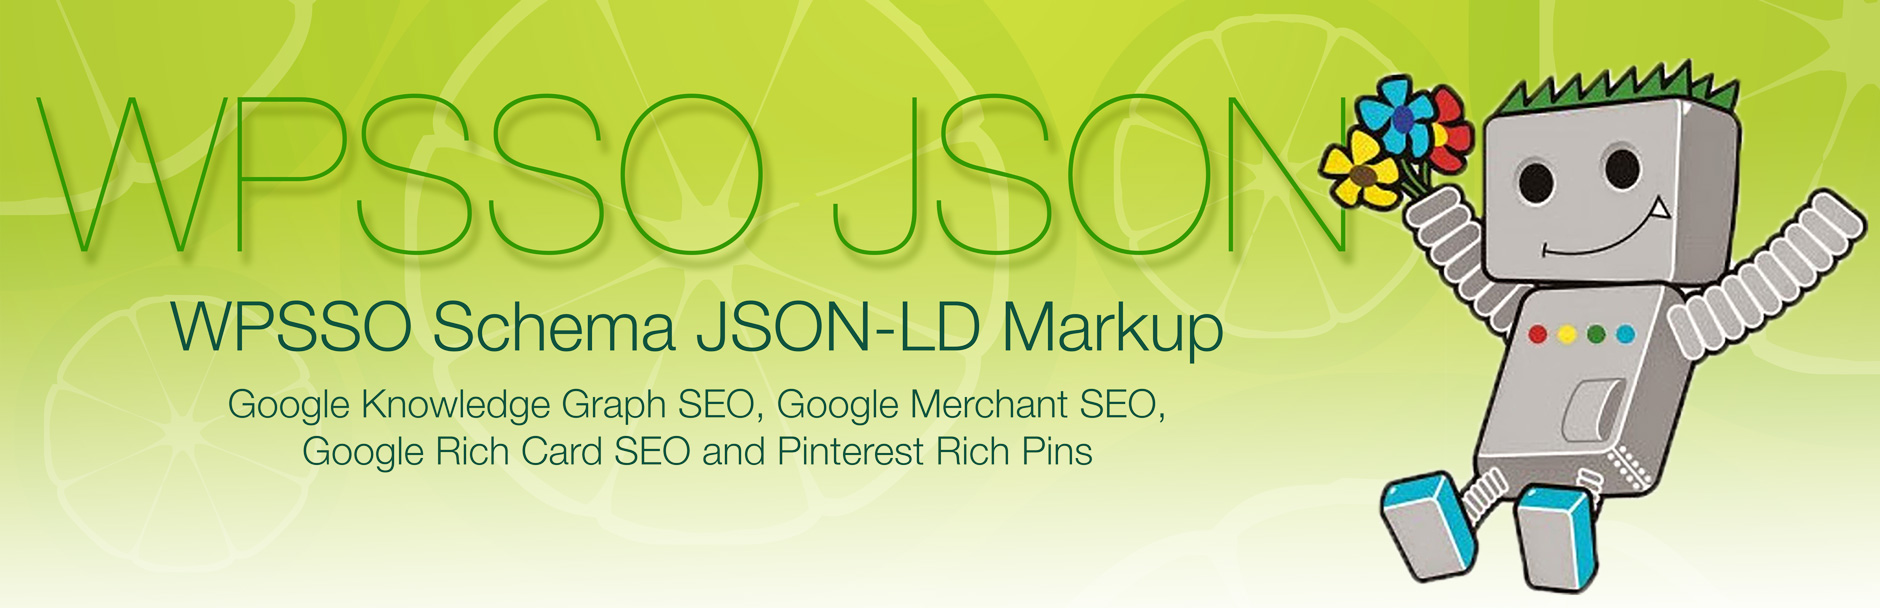
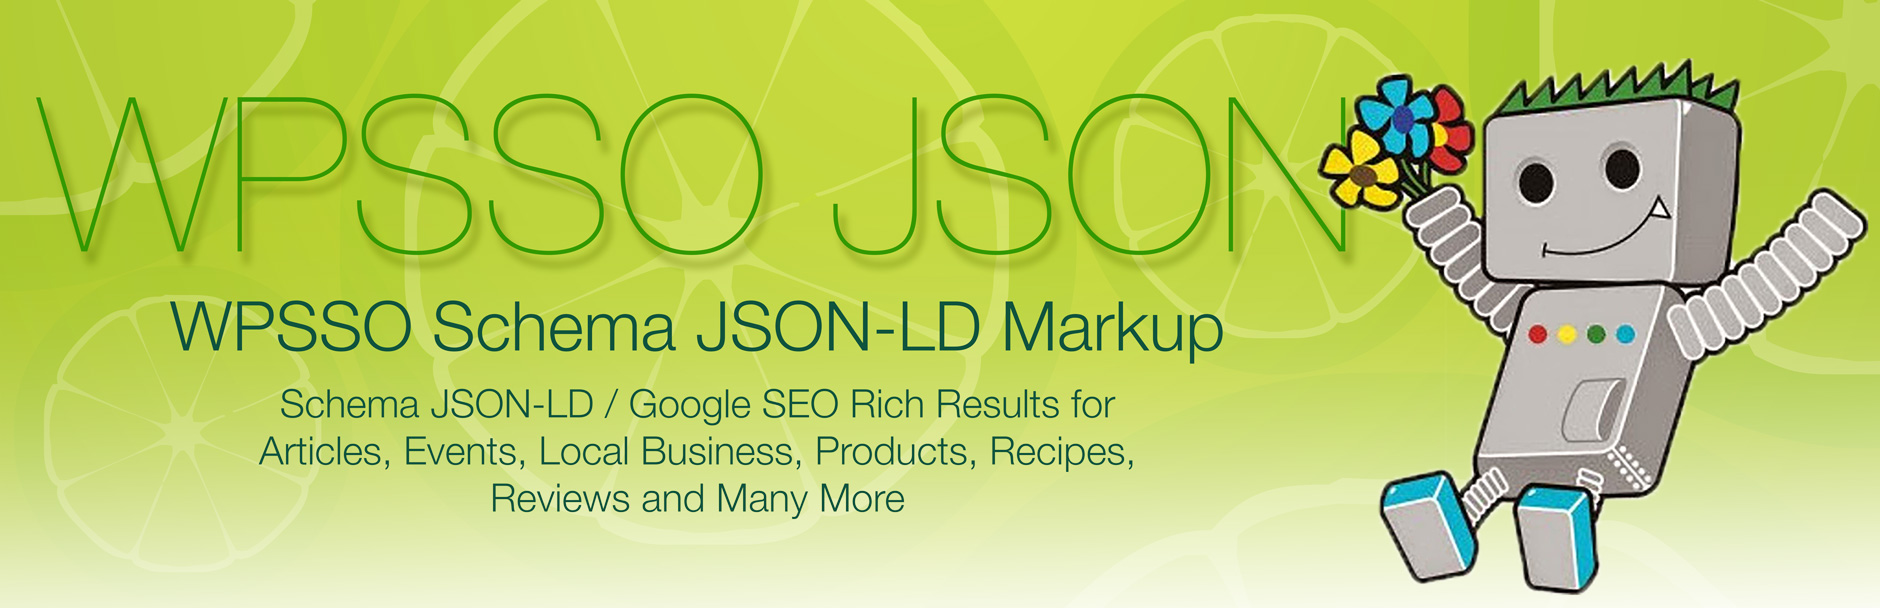
non-essential support files (documentation and assets)

diff --git a/index.html b/index.html
@@ -29,7 +29,7 @@
 
 <table>
 <tr><th align="right" valign="top" nowrap>Plugin Name</th><td>WPSSO Schema JSON-LD Markup</td></tr>
-<tr><th align="right" valign="top" nowrap>Summary</th><td>WPSSO Core add-on offers Schema JSON-LD / Google Rich Results SEO for Articles, Events, Local Business, Products, Recipes, Reviews and many more.</td></tr>
+<tr><th align="right" valign="top" nowrap>Summary</th><td>WPSSO Core add-on offers Schema JSON-LD / Google SEO Rich Results for Articles, Events, Local Business, Products, Recipes, Reviews and many more.</td></tr>
 <tr><th align="right" valign="top" nowrap>Stable Version</th><td>2.4.1</td></tr>
 <tr><th align="right" valign="top" nowrap>Requires At Least</th><td>WordPress 3.8</td></tr>
 <tr><th align="right" valign="top" nowrap>Tested Up To</th><td>WordPress 5.2.2</td></tr>
